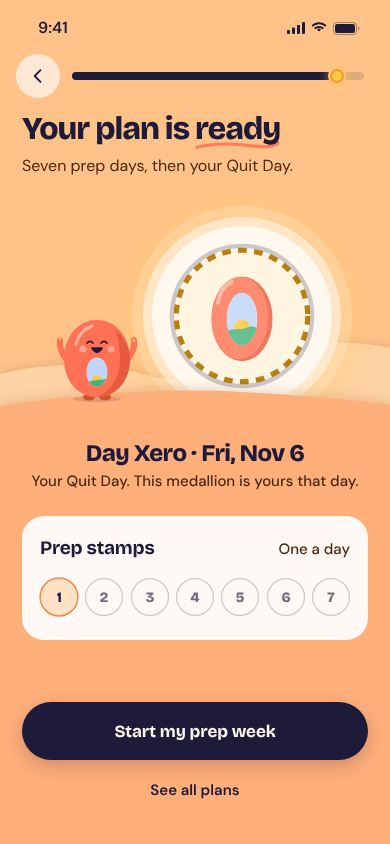
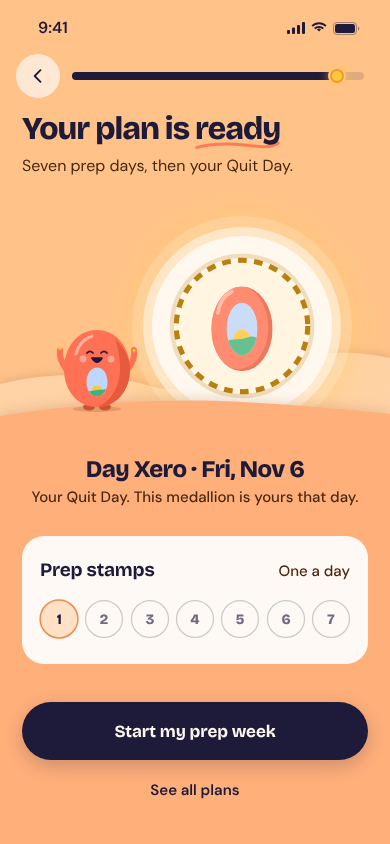
Cook: hero pass work in progress
Claude-Session: https://claude.ai/code/session_01DZ7ApmrncqosUtJWfkxY6v

Changed region(s): [[0.0308, 0.5237, 0.9538, 0.8009], [0.0, 0.2464, 1.0, 0.4929], [0.8923, 0.4005, 1.0, 0.4313]]

diff --git a/cook/site/screens/012-onboarding-reveal.html b/cook/site/screens/012-onboarding-reveal.html
@@ -11,23 +11,25 @@
   .screen { --far: #FFD3A6; --near: #FFAF7A; --lift: rgba(120,44,20,.15); }
   [data-theme="dark"] .screen { --far: #1F2950; --near: #161F38; --lift: rgba(0,0,0,.5); }
   /* The pair (Xero + medallion) is one centred group: Xero 100 box (about 80pt of character), 14pt off the coin rim. */
-  .hero { position: relative; height: 196px; margin: 48px 0 0; }
+  .hero { position: relative; height: 196px; margin: 58px 0 0; }
   .hero .gr { position: absolute; left: 0; width: 390px; height: 640px; pointer-events: none; }
   .hero .gr.far { top: 104px; z-index: 0; filter: drop-shadow(0 -2px 4px var(--lift)); }
   .hero .gr.near { top: 140px; z-index: 2; filter: drop-shadow(0 -3px 6px var(--lift)); }
   .hero .coin { position: absolute; z-index: 1; left: 152px; top: 0; width: 180px; height: 180px; border-radius: 99px; background: #FFF8EE; display: grid; place-items: center;
     box-shadow: 0 0 0 9px rgba(255,248,238,.55), 0 0 0 20px rgba(255,248,238,.2), 0 0 46px 20px rgba(255,206,110,.55); }
   /* Light: the waiting ring is dark gold on the cream coin. */
+  .hero .coin .med { color: #B9800F; }
   .hero .coin svg circle[stroke-dasharray] { stroke: #B9800F; }
   /* Dark: the halo is warm amber too (never grey), and the ring keeps the kit's gold. */
   [data-theme="dark"] .hero .coin { box-shadow: 0 0 0 3px rgba(255,214,140,.6), 0 0 26px 8px rgba(255,190,90,.5), 0 0 80px 22px rgba(255,160,60,.24); }
+  [data-theme="dark"] .hero .coin .med { color: #F5B83D; }
   [data-theme="dark"] .hero .coin svg circle[stroke-dasharray] { stroke: #F5B83D; }
   .hero .xc { position: absolute; z-index: 3; left: 47px; top: 77px; }
   .cap, .wrap { position: relative; z-index: 3; }
-  .cap { padding: 18px var(--gutter) 0; text-align: center; display: grid; gap: 4px; }
+  .cap { padding: 24px var(--gutter) 0; text-align: center; display: grid; gap: 4px; }
   .cap .t-foot { color: var(--muted); }
-  .wrap { padding: 24px var(--gutter) 0; }
-  .wrap .card { padding: 20px 18px 22px; }
+  .wrap { padding: 28px var(--gutter) 0; }
+  .wrap .card { padding: 22px 18px 24px; }
   [data-theme="dark"] .wrap .card { background: var(--card-2); }
   .sh { display: flex; justify-content: space-between; align-items: baseline; }
   .stamps { display: flex; justify-content: space-between; margin: 16px -2px 0; color: var(--fg); }
